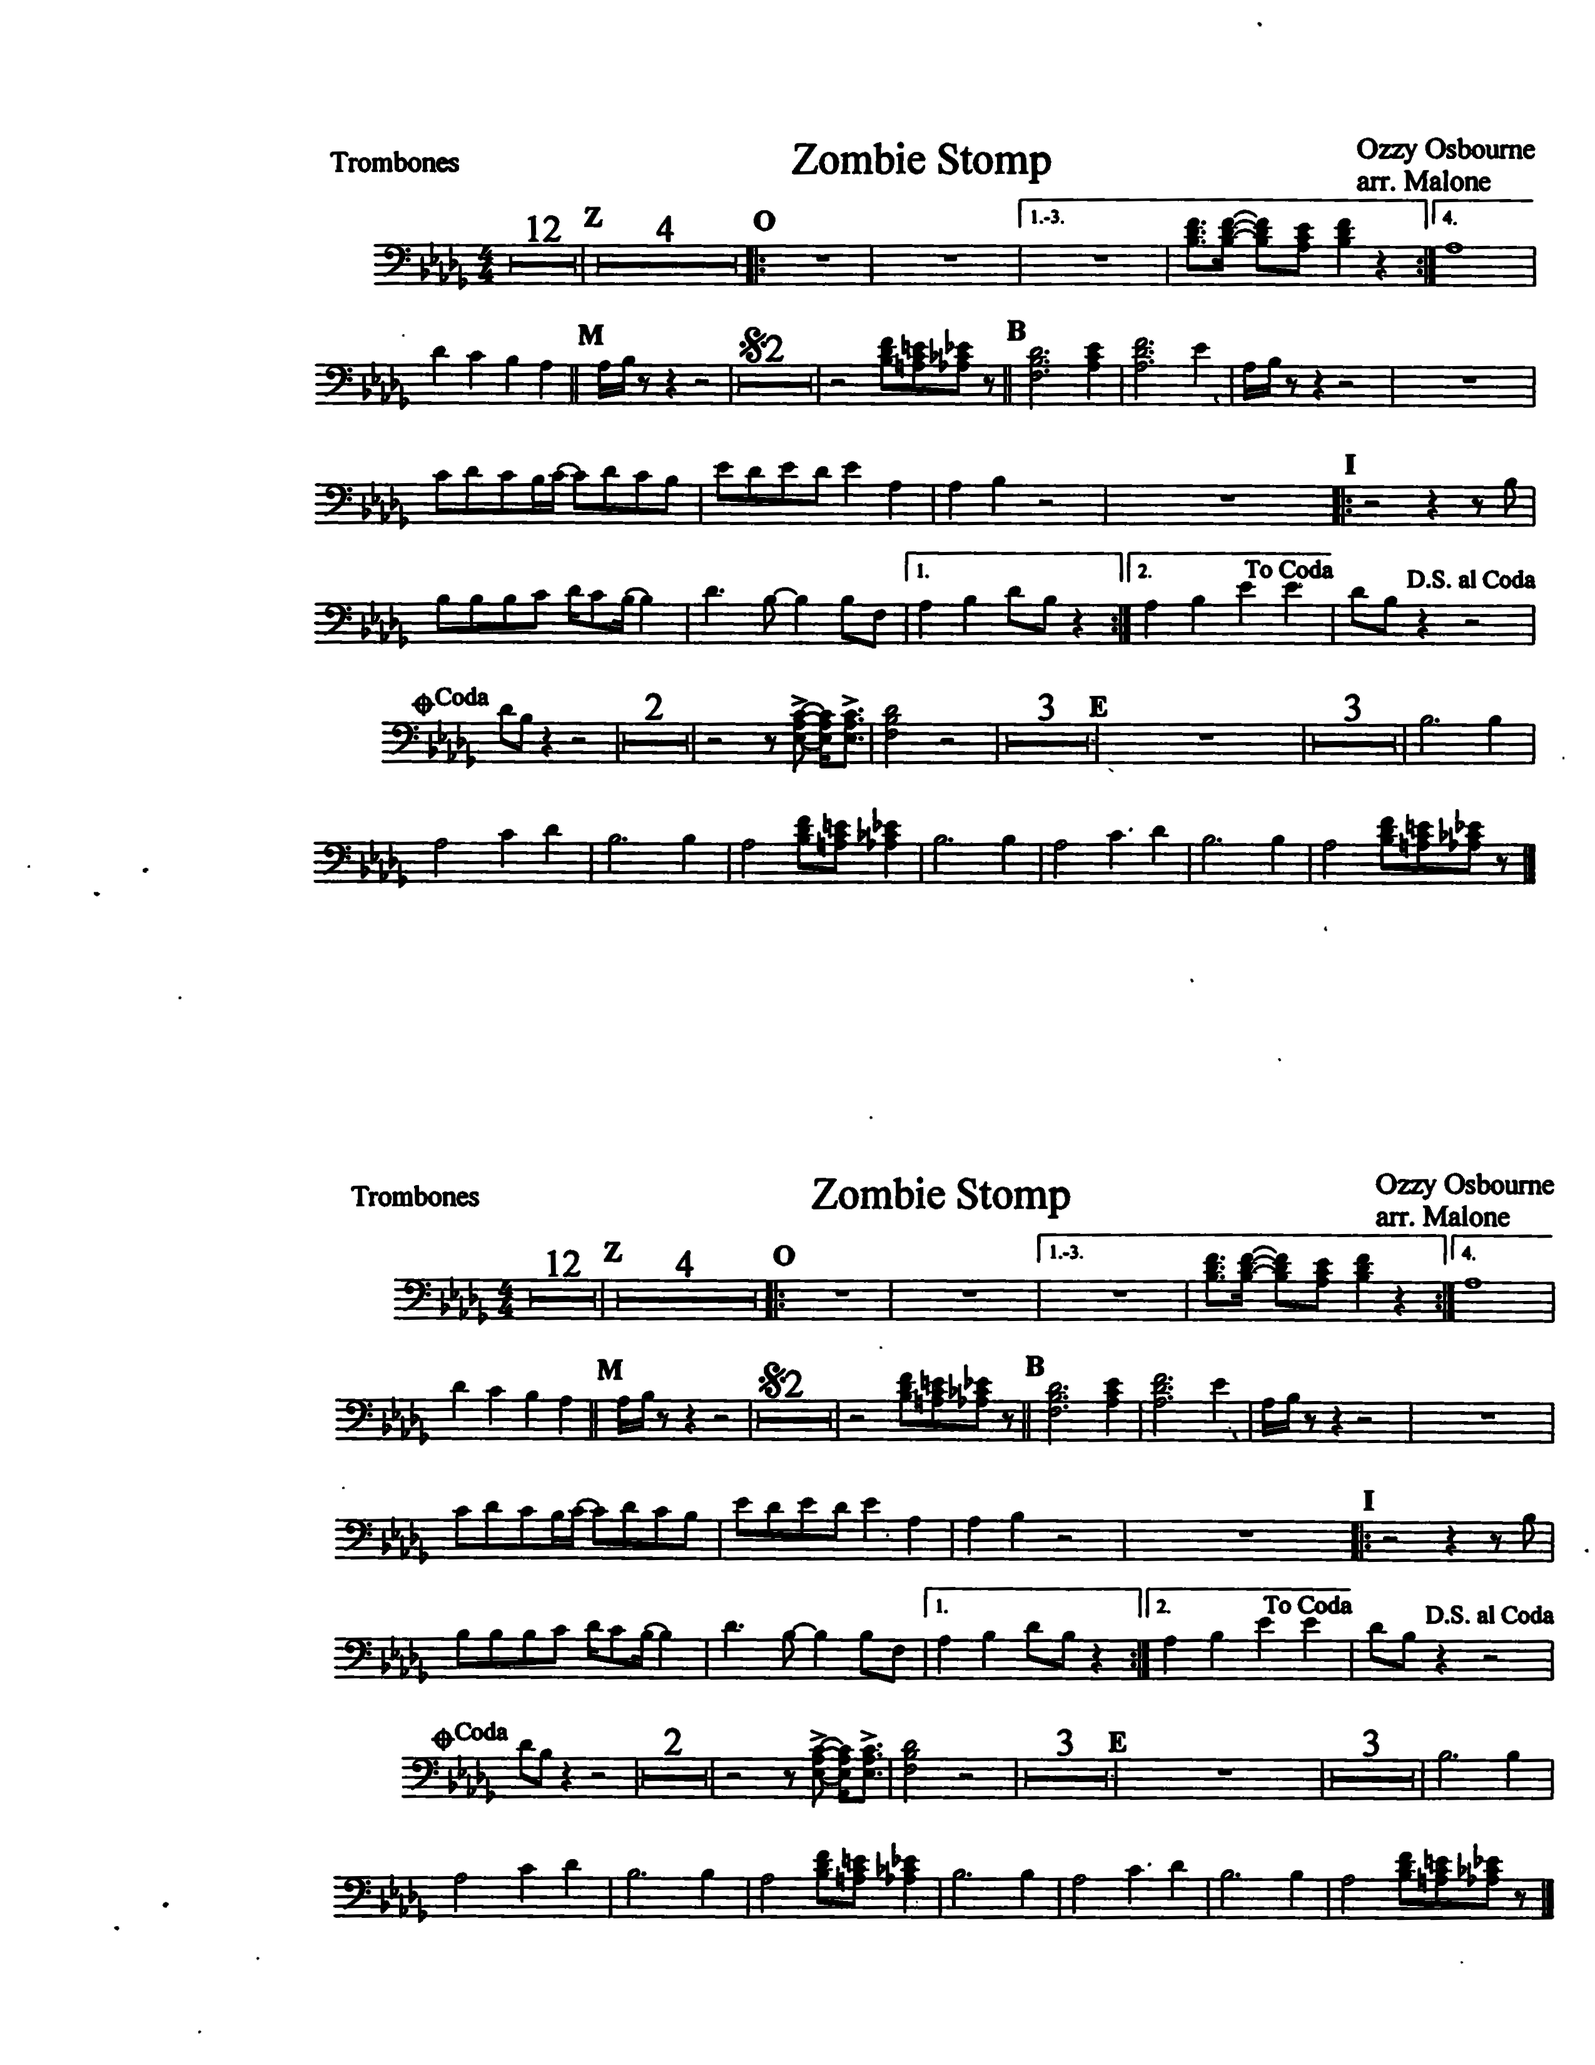
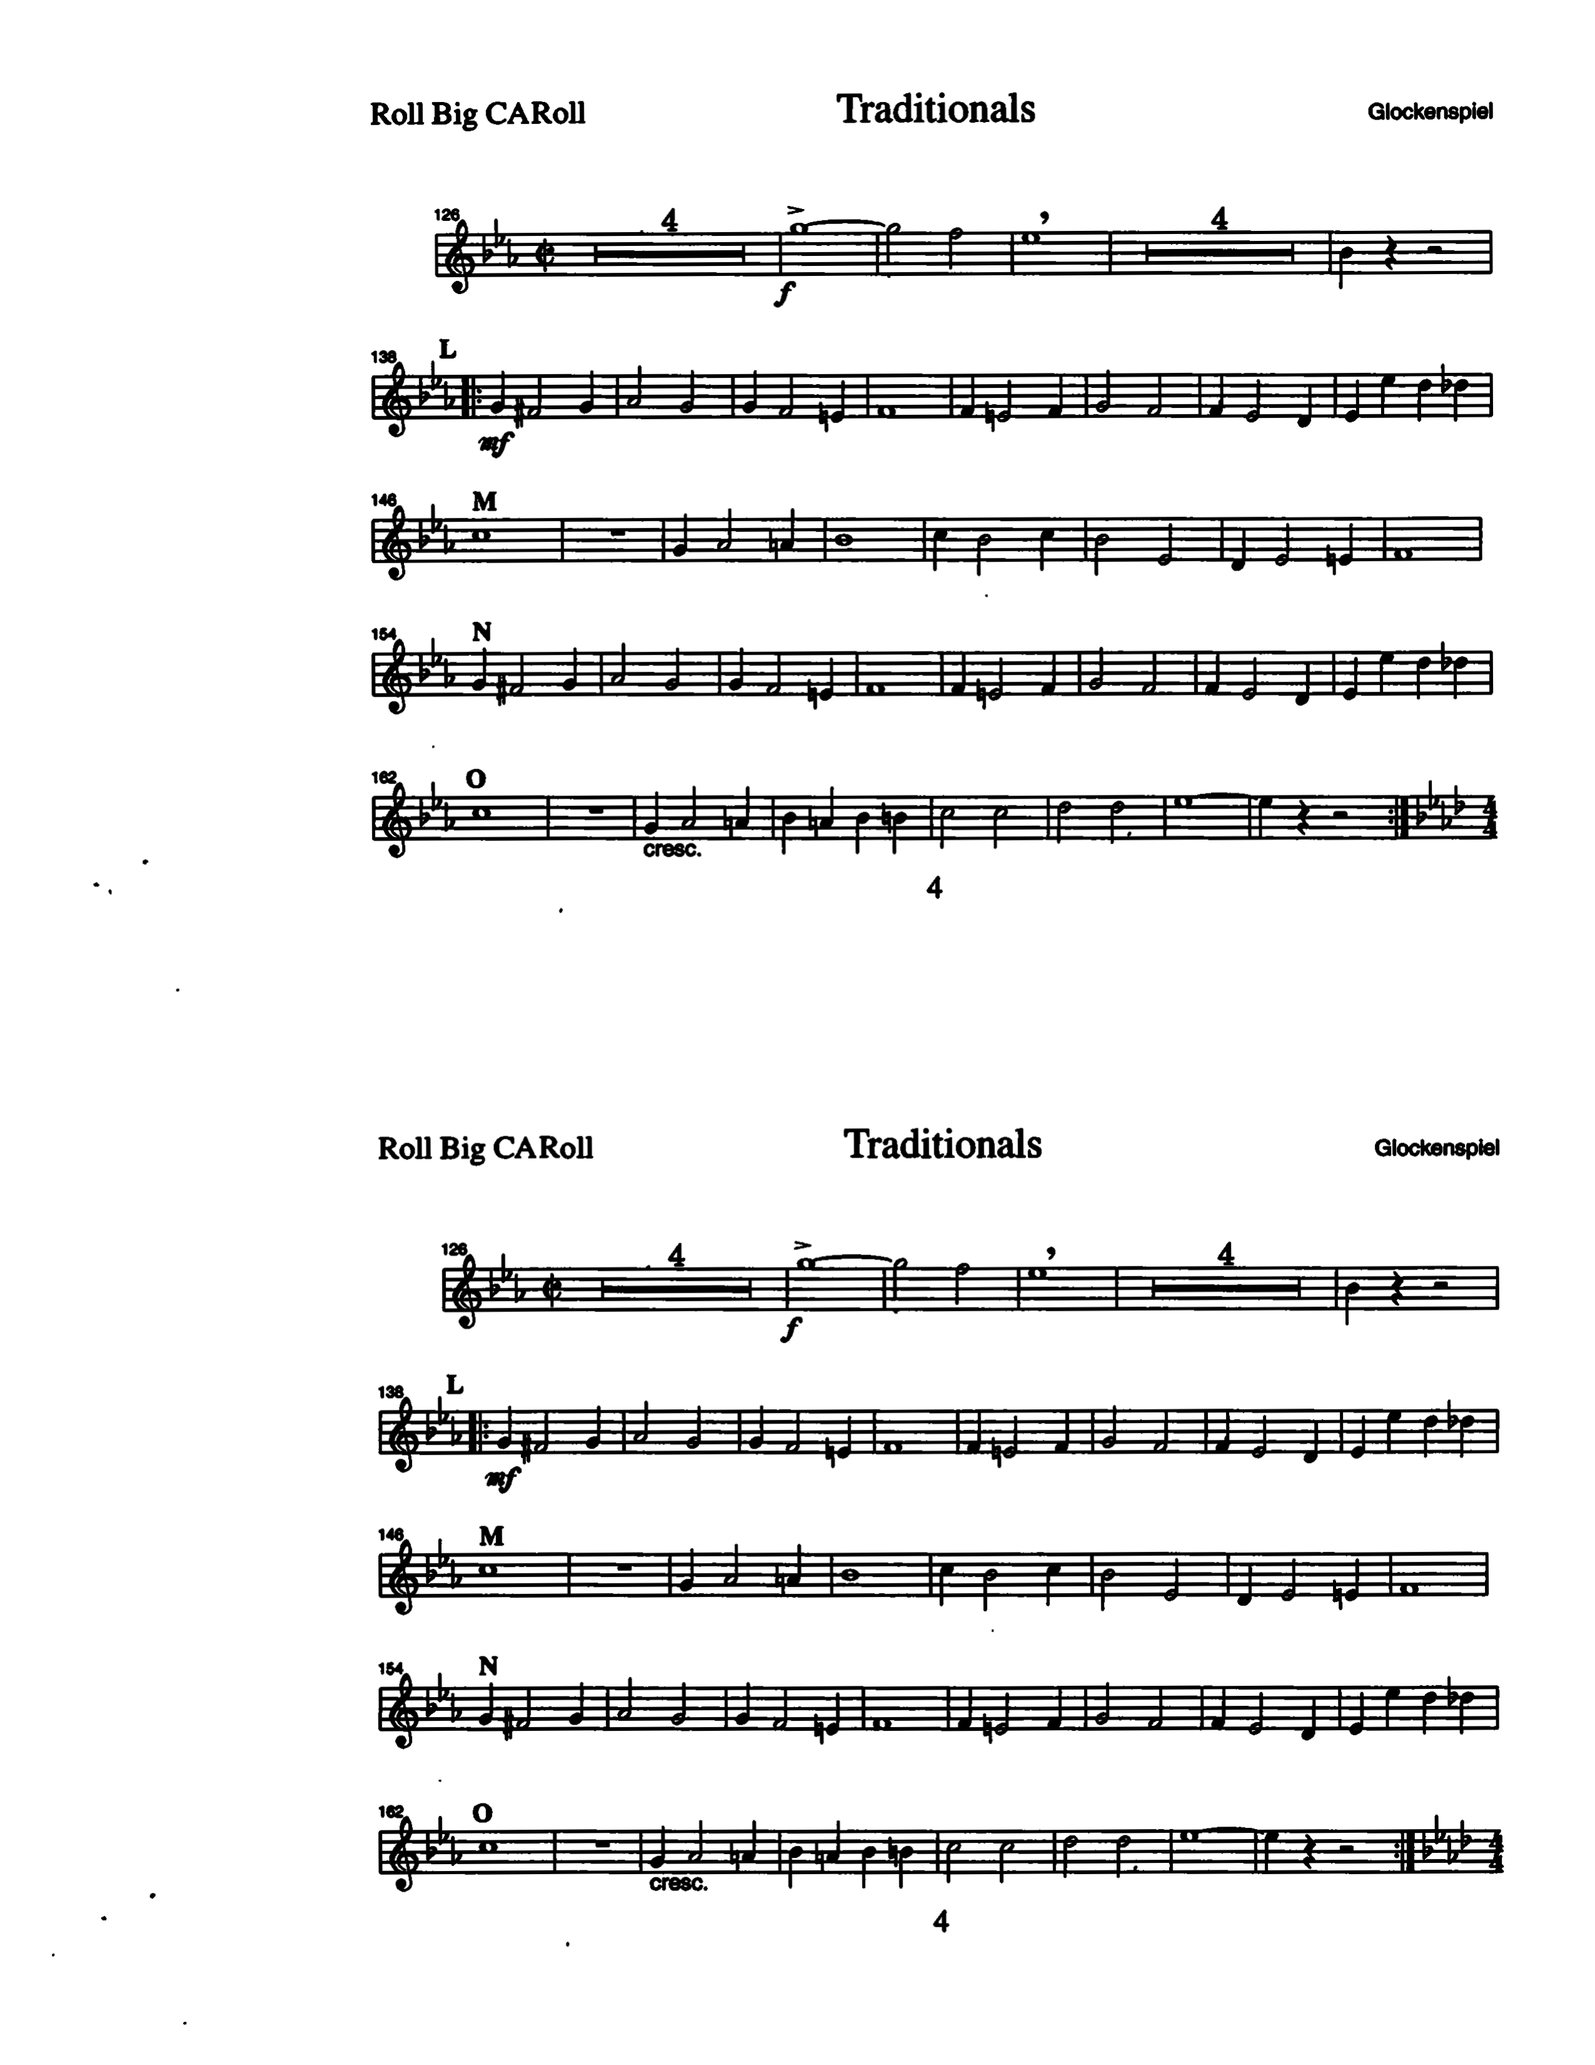
splitting gui

Changed region(s): [[0.2169, 0.5306, 0.9914, 0.9364], [0.1859, 0.0312, 0.9604, 0.437]]

diff --git a/crop_tool.py b/crop_tool.py
@@ -1,9 +1,11 @@
+from ast import Str
 from copy import copy
 import os
 import tkinter as tk
+from tkinter import font
 import tkinter.filedialog
 import fitz
-from numpy import full, var
+from numpy import delete, full, var
 import pdf_reader as reader
 from PIL import Image,ImageTk
 PADDING = 10
@@ -14,8 +16,22 @@ SHIFT_HELD2 = 262185
 IMAGE_PATH = "temp.png"
 
 def savePageImage(page: fitz.Page, filepath:str)-> None:
-    pixmap= page.get_pixmap(dpi=300)
+    pixmap= page.get_pixmap(dpi=300,colorspace='GRAY')
     pixmap.save(filepath)
+
+def getPageScaledImage(parent, page: fitz.Page) -> tk.PhotoImage:
+    # global page_image
+    width, height = page.bound().br
+    # print(width, height)
+    # savePageImage(page, IMAGE_PATH)
+    # page_image = Image.open(IMAGE_PATH)
+    # page_image.load()
+    pix = page.get_pixmap(dpi=300,colorspace='GRAY')
+    parent.page_image = Image.frombytes('L', [pix.width, pix.height], pix.samples)
+    parent.page_image = parent.page_image.resize(size=(int(width), int(height)))
+    my_image = img = ImageTk.PhotoImage(parent.page_image,master=parent)
+    # print(my_image)
+    return my_image
 
 class CropTool(tk.Toplevel):
     def __init__(self,parent,filepath=None) -> None:
@@ -30,7 +46,7 @@ class CropTool(tk.Toplevel):
         self.expand_var = tk.BooleanVar(self)
         self.twoinone_var = tk.BooleanVar(self)
         self.CROPBOX_ID = None
-        print(self.focus_get())
+        # print(self.focus_get())
         if not filepath:
             self.path = self.openFile()
         else:
@@ -77,7 +93,7 @@ class CropTool(tk.Toplevel):
         self.twoinone_box.grid(row=4,column=0,sticky = 'nwes',columnspan=2)
         self.rightalign_box.grid(row=5,column=0,sticky = 'nwes',columnspan=2)
         self.main_frame.pack(padx=PADDING,pady=PADDING,fill='none')
-        myimage = self.getPageScaledImage(page)
+        myimage = getPageScaledImage(self,page)
         self.pdf_canvas.create_image(2,2,image=myimage,anchor='nw')
         self.tl = fitz.Point(2,2)
         self.br = copy(self.page_br)
@@ -92,6 +108,7 @@ class CropTool(tk.Toplevel):
         # print(self.focus_get())
         self.bind("<Destroy>", self.kill_root)
         self.mainloop()
+
     def checkKeys(self):
         tl, br = self.tl, self.br
         key_string = self.keyvar.get()
@@ -139,17 +156,6 @@ class CropTool(tk.Toplevel):
         self.focus_get()
         return answer.name
     # get page sized tk.PhotoImage from a fitz.Page 
-    def getPageScaledImage(self, page: fitz.Page) -> tk.PhotoImage:
-        # global page_image
-        width, height = page.bound().br
-        # print(width, height)
-        self.savePageImage(page, IMAGE_PATH)
-        page_image = Image.open(IMAGE_PATH)
-        # page_image.load()
-        page_image = page_image.resize(size=(int(width), int(height)))
-        my_image = img = ImageTk.PhotoImage(page_image,master=self)
-        # print(my_image)
-        return my_image
 
     # draw current cropbox onto pdf_canvas, replacing previous
     def drawCropBox(self) -> None:
@@ -222,14 +228,7 @@ class CropTool(tk.Toplevel):
         #             deflate_images = True, garbage = 4, clean = True)
         new_br = newdoc[0].bound().br
         # create new window to show altered document
-        preview_window = tk.Toplevel(master=self)
-        preview_window.title('Crop preview')
-        preview_window.geometry('{0}x{1}'.format(int(new_br.x), int(new_br.y)))
-        preview_window.img = img = self.getPageScaledImage(newdoc[0])
-        preview_canvas = tk.Canvas(preview_window,bg='pink',width=new_br.x,height=new_br.y)
-        preview_canvas.create_image(2,2,image=img,anchor='nw')
-        preview_canvas.pack()
-    # rotate viewing frame to match with rotation value
+        preview_window = PDFWindow(self,newdoc,'Crop Preview')
     def updateRotation(self) -> None:
         # global main_frame, pdf_canvas, rotate_var,page_image,page_br
         # # rotate pdf_canvas width and height, repack gui elements
@@ -251,6 +250,7 @@ class CropTool(tk.Toplevel):
     def kill_root(self, event):
         if event.widget == self and self.master.winfo_exists():
             self.master.destroy()
+    
     def keyup(self,event):
         # print event.keycode
         if  event.keysym in self.history :
@@ -267,7 +267,7 @@ class EntryWithLabel(tk.Frame):
     '''
     Custom widget that combines a tk.Label and a tk.Entry side by side
     '''
-    def __init__(self, parent, label, default="") -> None:
+    def __init__(self, parent:tk.Widget, label:str, default:str="") -> None:
         tk.Frame.__init__(self, parent)
         self.label = tk.Label(self, text=label, anchor="w")
         self.entry = tk.Entry(self)
@@ -285,13 +285,58 @@ class CheckButtonWithLabel(tk.Frame):
     '''
     Custom widget that combines a tk.Label and a tk.Checkbutton side by side
     '''
-    def __init__(self, parent, label, var) -> None:
+    def __init__(self, parent:tk.Widget, label:str, var:tk.Variable) -> None:
         tk.Frame.__init__(self, parent)
         self.label = tk.Label(self, text=label, anchor="w")
         self.checkbutton = tk.Checkbutton(self,variable=var)
         self.label.pack(side="left", fill="x")
         self.checkbutton.pack(side="right", fill="x", padx=4)
 
+class PDFWindow(tk.Toplevel):
+    def __init__(self,parent:tk.Widget,doc:fitz.Document,title:str) -> None:
+        tk.Toplevel.__init__(self, parent)
+        br = doc[0].bound().br
+        self.image_id = -1
+        self.title(title)
+        self.geometry('{0}x{1}'.format(int(br.x), int(br.y)))
+        self.image_canvas = PDFCanvas(self,doc[0],'page 1')
+        self.image_canvas.pack()
+
+class PDFCanvas(tk.Frame):
+    def __init__(self, parent:tk.Widget,page:fitz.Page,label_var:tk.StringVar = None) -> None:
+        tk.Frame.__init__(self, parent)
+        self.page = page
+        br = page.bound().br
+        self.configure(relief='groove',borderwidth=4,width=int(br.x),
+                       height=int(br.y),padx=5,pady=5,bg='snow2')
+        self.image_id = -1
+        if label_var != '':
+            self.label_var = label_var
+            self.label = tk.Label(self,textvariable=self.label_var,
+                                  font=('Arial',16))
+            self.label.grid(row=0,column=0,pady=5)
+        else:
+            self.label = None
+        self.image_canvas = tk.Canvas(self,bg='white',width=br.x, height=br.y)
+        self.image_canvas.grid(row=1,column=0)
+        self.updatePage(page)
+
+    def updatePage(self, page:fitz.Page) -> None:
+        self.updateImage(getPageScaledImage(self,page))
+        # if label:
+        #     self.label_var.set(label)
+    
+    def updateImage(self, img:ImageTk.PhotoImage):
+        self.img = img
+        self.clear()
+        self.image_id = self.image_canvas.create_image(0,0,image=self.img,anchor='nw')
+
+    def clear(self) -> None:
+        if self.image_id != -1:
+            self.image_canvas.delete(self.image_id)
+            self.image_id = -1
+    
+        # self.geometry('{0}x{1}'.format(int(br.x), int(br.y)))
 if __name__ == "__main__":
     root = tk.Tk()
     root.grab_set()

diff --git a/pdf_splitter.py b/pdf_splitter.py
@@ -5,7 +5,7 @@ import pdf_reader as reader
 import crop_tool as crop
 import pdf_grouper as grouper
 import fitz
-# import tkinter as tk
+import tkinter as tk
 from matplotlib import pyplot as plt
 import numpy as np
 import cv2 as cv
@@ -16,15 +16,7 @@ import pytesseract
 MAX_AVERAGE_DISTANCE = 100
 FUZZY_THRESHOLD = 0.02
 # MIN_FOUND_VAL = 0.47
-# root = tk.Tk()
-# root.title("Split pdf")
-# root.withdraw()
-# root.geometry("1000x1000")
-# main_frame = tk.Frame(master=root, background = 'grey')
-# pdf_canvas = tk.Canvas(main_frame, background = 'light blue',width = 400, height = 400)
-# pdf_canvas.grid(row = 0, column = 0, sticky = 'nwes')
-# button_frame = tk.Frame(main_frame,  background = 'yellow', width = 400, height = 100)
-# button_frame.grid(row = 1, column= 0, sticky = 'nwes')
+
 def printDict(dict):
     for k,v in dict.items():
         print(k, end = ':\n')
@@ -214,9 +206,60 @@ def getPartFromImage(img) -> str:
             return part
     return grouper.ERROR_PART
 
+class SplitGUI(tk.Toplevel):
+    def __init__(self, parent, doc:fitz.Document):
+        tk.Toplevel.__init__(self, parent)
+        self.title = 'Split PDF'
+        self.doc = doc
+        br = doc[0].bound().br
+        self.geometry('{0}x{1}'.format(int(br.x)*2+50, int(br.y)))
+        self.page_label1 = tk.StringVar(self)
+        self.page_label2 = tk.StringVar(self)
+        self.main_frame = tk.Frame(self, bg='yellow')
+        self.page_canvas1 = crop.PDFCanvas(self.main_frame, doc[0], self.page_label1)
+        self.page_canvas2 = crop.PDFCanvas(self.main_frame, doc[0], self.page_label2)
+        self.pagenum = 0
+        self.set_page_num(0)
+        self.page_canvas1.grid(row=0,column=0)
+        self.page_canvas2.grid(row=0,column=1)
+        self.bind("<Destroy>", self.kill_root)
+        self.bind('<KeyPress>', self.key_input)
+        self.main_frame.pack()
+        self.mainloop()
+
+    def key_input(self, event):
+        print(event.keysym)
+        key = event.keysym
+        if key == 'a':
+            if self.pagenum == 0:
+                return
+            self.pagenum = self.pagenum - 1
+        elif key == 'd':
+            if self.pagenum == self.doc.page_count - 1:
+                return
+            self.pagenum = self.pagenum + 1
+        print(self.pagenum)
+        self.set_page_num(self.pagenum)
+
+    def set_page_num(self, num:int):
+        self.page_label1.set(str(num + 1))
+        self.page_label2.set(str(num + 2))
+        if num < 0:
+            self.page_canvas1.clear()
+            self.page_canvas2.clear()
+            return
+        if num < self.doc.page_count:
+            self.page_canvas1.updatePage(self.doc[num])
+        if num < self.doc.page_count - 1:
+            self.page_canvas2.updatePage(self.doc[num + 1])
+
+    def kill_root(self, event):
+        if event.widget == self and self.master.winfo_exists():
+            self.master.destroy()
+
 if __name__ == "__main__":
     parser = argparse.ArgumentParser(sys.argv[0])
-    parser.add_argument('filename',type=str, nargs = '?',
+    parser.add_argument('filename',type=str,
                 help = 'The file that will be split')
     parser.add_argument('-p','-page_names', dest = 'output_names_filepath',type=str, nargs = '?',
                 help = 'File containing the names for each page on their own line',
@@ -238,6 +281,9 @@ if __name__ == "__main__":
     parser.add_argument('-r', dest = 'rotate', 
                 help = 'Rotate the input documents 90 degrees',
                 type = int)
+    parser.add_argument('-g', dest = 'gui', 
+                help = 'Rotate the input documents 90 degrees',
+                action = 'store_true')
     args = parser.parse_args()
     print(args.filename)
     if args.last_page_file:
@@ -246,7 +292,9 @@ if __name__ == "__main__":
     else:
         last_pages = None
     args.pages_override = last_pages
-    # print(args.last_pages)
-    # print(grouper.matchPart('eb alto saxophone/horn in eb ',pretty = True))
-    # print(vars(args))
-    splitPDFs(**vars(args))
+    if args.gui:
+        root = tk.Tk()
+        root.withdraw()
+        SplitGUI(root,fitz.open(args.filename))
+    else:
+        splitPDFs(**vars(args))

diff --git a/pdf_reader.py b/pdf_reader.py
@@ -128,8 +128,6 @@ def createCroppedDocument(src:fitz.Document, full_size:bool=False,
     '''
     doc = fitz.Document(rect=FORMAT)  # create new empty doc
     top_mg, left_mg, right_mg, bottom_mg = margins
-    # if right_align:
-    #     src = rightAlign(src)
     fmt = fitz.paper_rect('letter')
     for page in src:  # process each page
         page.set_rotation(0)  # ensure page is rotated correctly
@@ -141,24 +139,24 @@ def createCroppedDocument(src:fitz.Document, full_size:bool=False,
             croprect = fitz.Rect(left_mg, top_mg, r.x1 - right_mg, r.y1 / 2 - bottom_mg)
         else:
             croprect = fitz.Rect(r.x1 / 2 - top_mg, bottom_mg, r.x1 - right_mg, r.y1 - left_mg)
-        print(margins)
-        print(page.mediabox)
-        print(croprect)
-        page.add_rect_annot(croprect)
-        src.save('altered.pdf')
+        # print(margins)
+        # print(page.mediabox)
+        # print(croprect)
+        # page.add_rect_annot(croprect)
+        # src.save('altered.pdf')
         if two_in_one: # for duplicating ones that are already half size and two pages
             page.set_cropbox(croprect)
             src_pix = page.get_pixmap(dpi = 300)
             insertImage(new_page, src_pix, expand, rotate,right_align)
             if expand: 
                 page.set_cropbox(fitz.Rect(left_mg, (r.y1 / 2) - top_mg, r.x1 - right_mg, r.y1-bottom_mg))
-                src_pix2 = page.get_pixmap(dpi = 300)
+                src_pix2 = page.get_pixmap(dpi = 300,colorspace='GRAY')
                 new_page2 = doc.new_page()
                 insertImage(new_page2, src_pix2, expand,rotate,right_align)
         else:
             page.set_cropbox(fitz.Rect(croprect))
             print(page.cropbox_position)
-            src_pix = page.get_pixmap(dpi = 300)
+            src_pix = page.get_pixmap(dpi = 300,colorspace='GRAY')
             insertImage(new_page, src_pix, expand, rotate,right_align)
     return doc 
 
@@ -173,12 +171,12 @@ def insertImage(page, src_pix, expand = False,
             page.insert_image(fitz.Rect(0, 5, r.x1 * CW, r.y1 / 2 - 5),
                 pixmap= src_pix, rotate = rotate, keep_proportion = keep_proportion)
             page.insert_image(fitz.Rect(0, r.y1 / 2 + 5, r.x1 * CW, r.y1 - 5), 
-                pixmap= src_pix, rotate = rotate, keep_proportion = False)
+                pixmap= src_pix, rotate = rotate, keep_proportion = keep_proportion)
         else:
             page.insert_image(fitz.Rect(r.x1 * (1 - CW), 0, r.x1, r.y1 / 2),
-                pixmap= src_pix, rotate = rotate, keep_proportion = True)
+                pixmap= src_pix, rotate = rotate, keep_proportion = keep_proportion)
             page.insert_image(fitz.Rect(r.x1 * (1 - CW), r.y1 / 2, r.x1, r.y1), 
-                pixmap= src_pix, rotate = rotate, keep_proportion = True)
+                pixmap= src_pix, rotate = rotate, keep_proportion = keep_proportion)
 
 def rightAlign(doc: fitz.Document) -> fitz.Document:
     out_doc = fitz.Document(rect=FORMAT)
